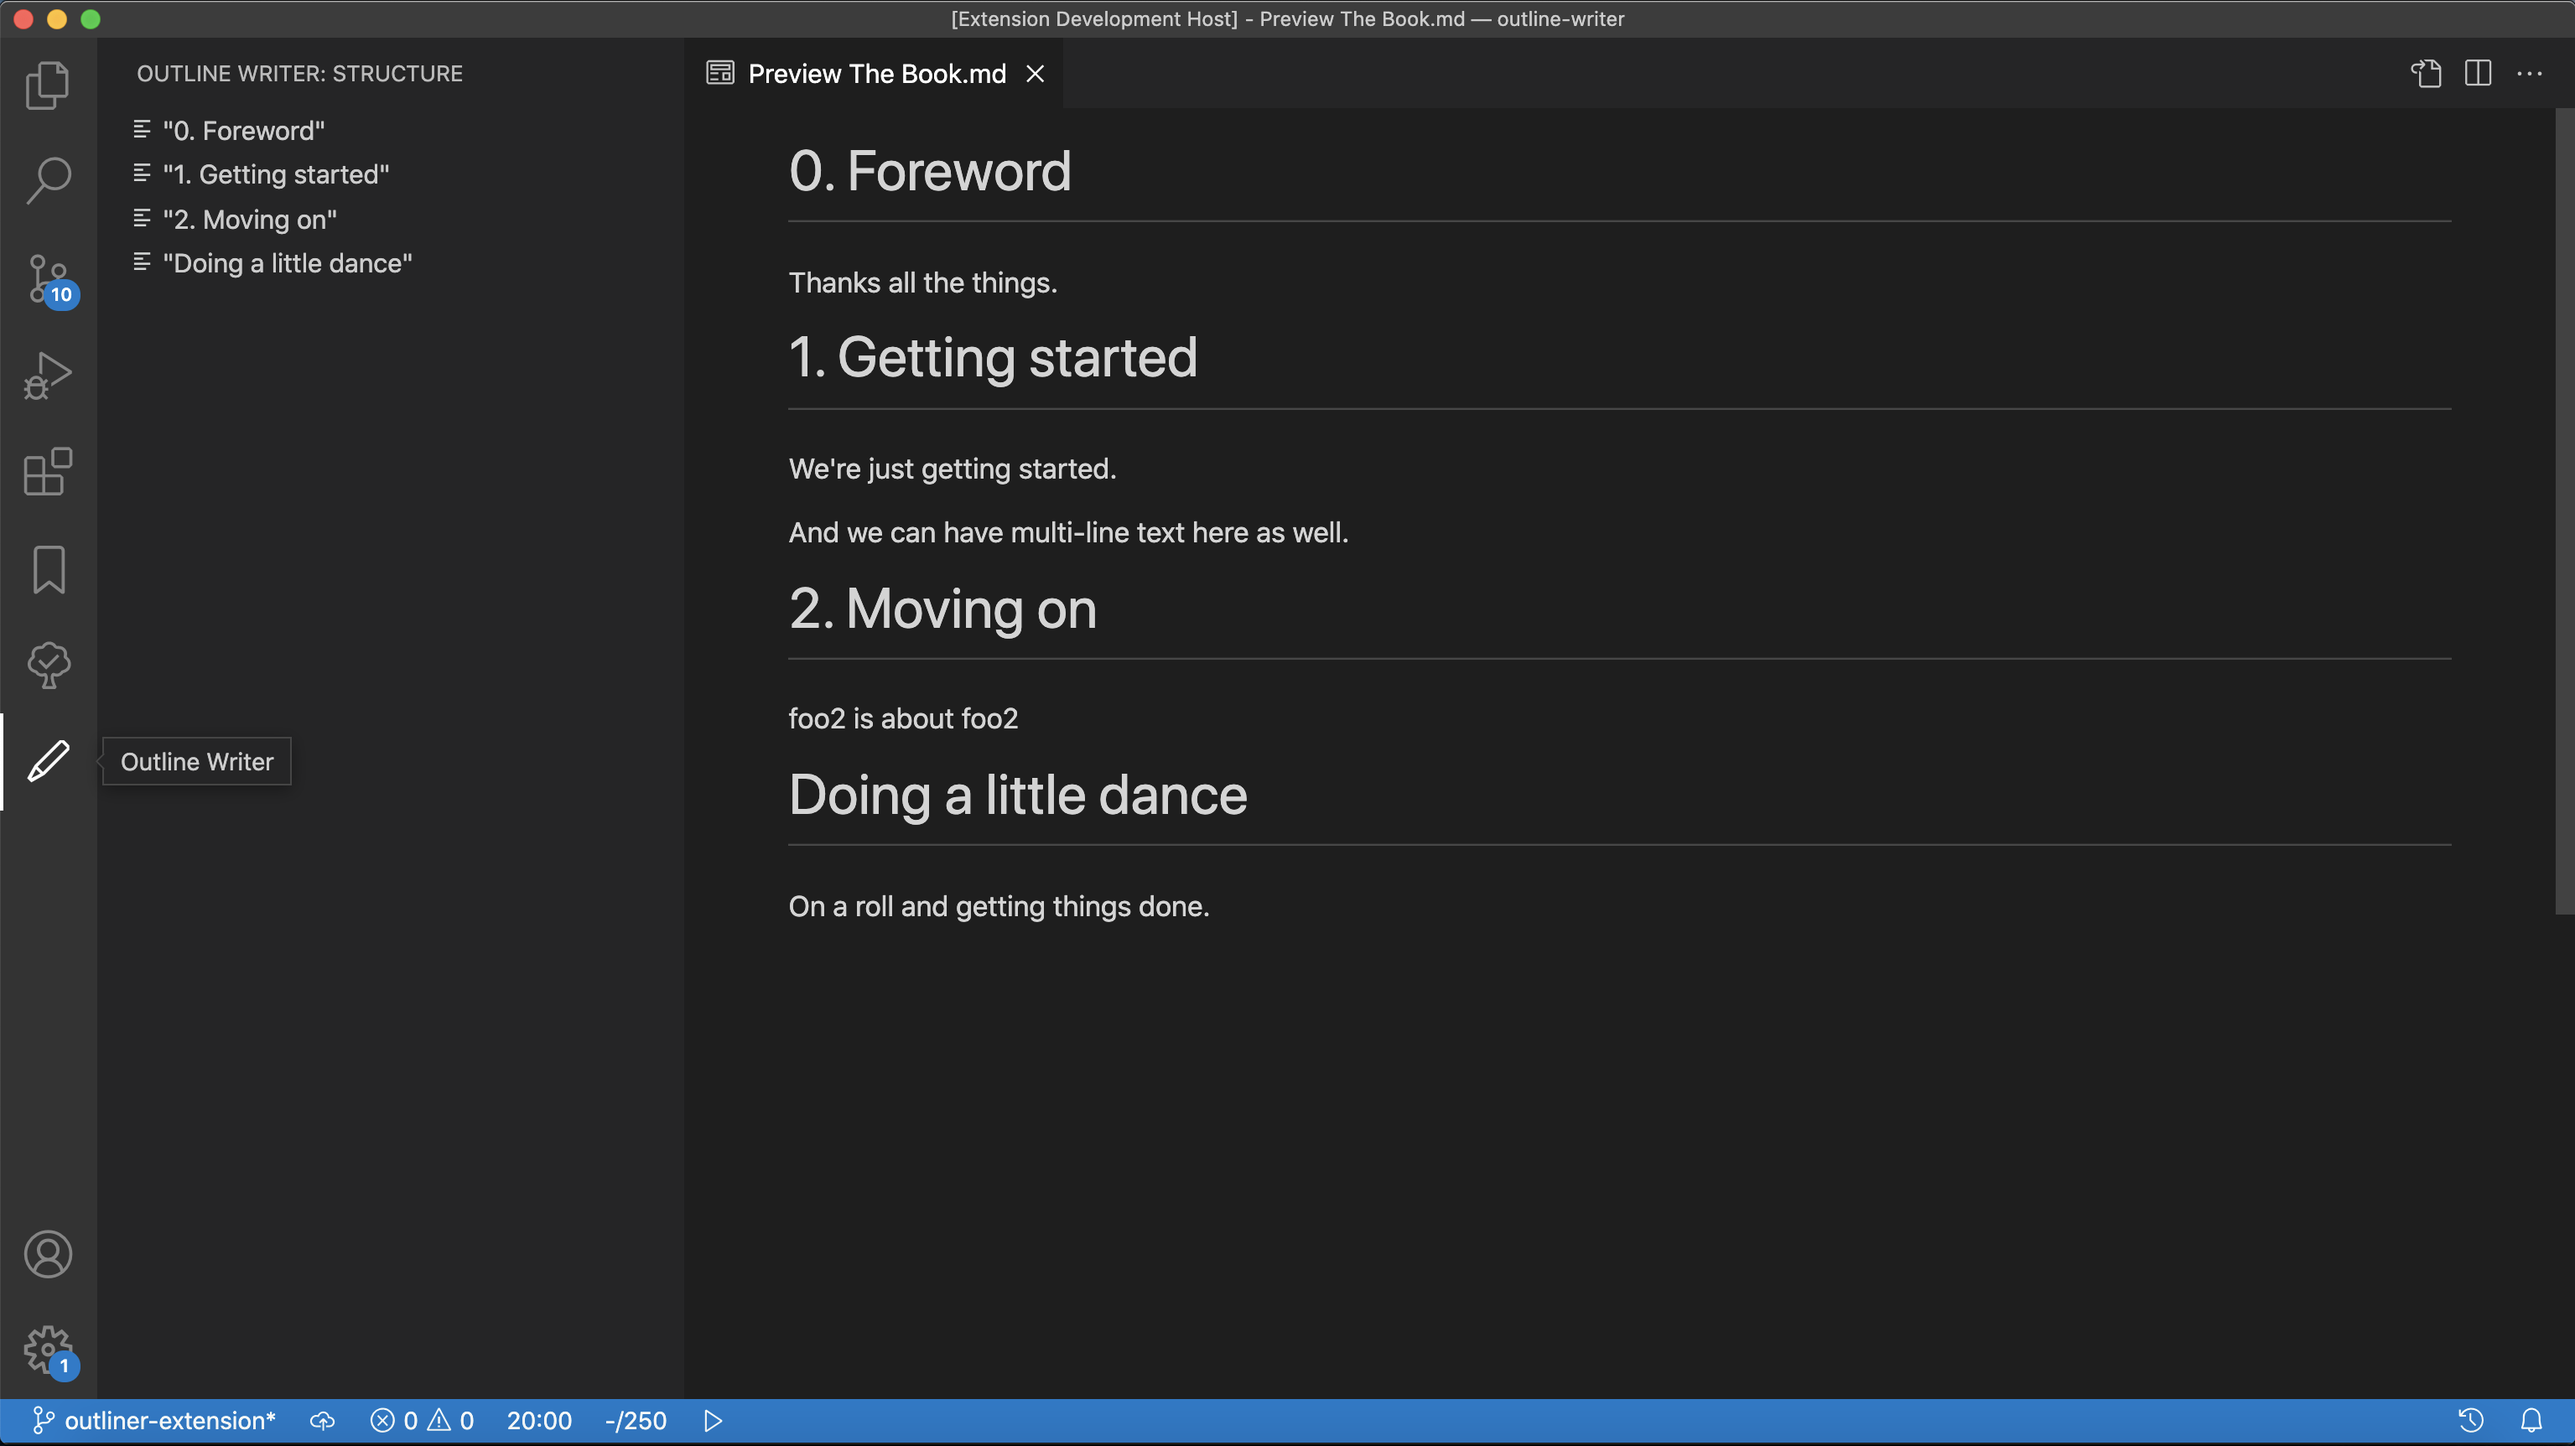
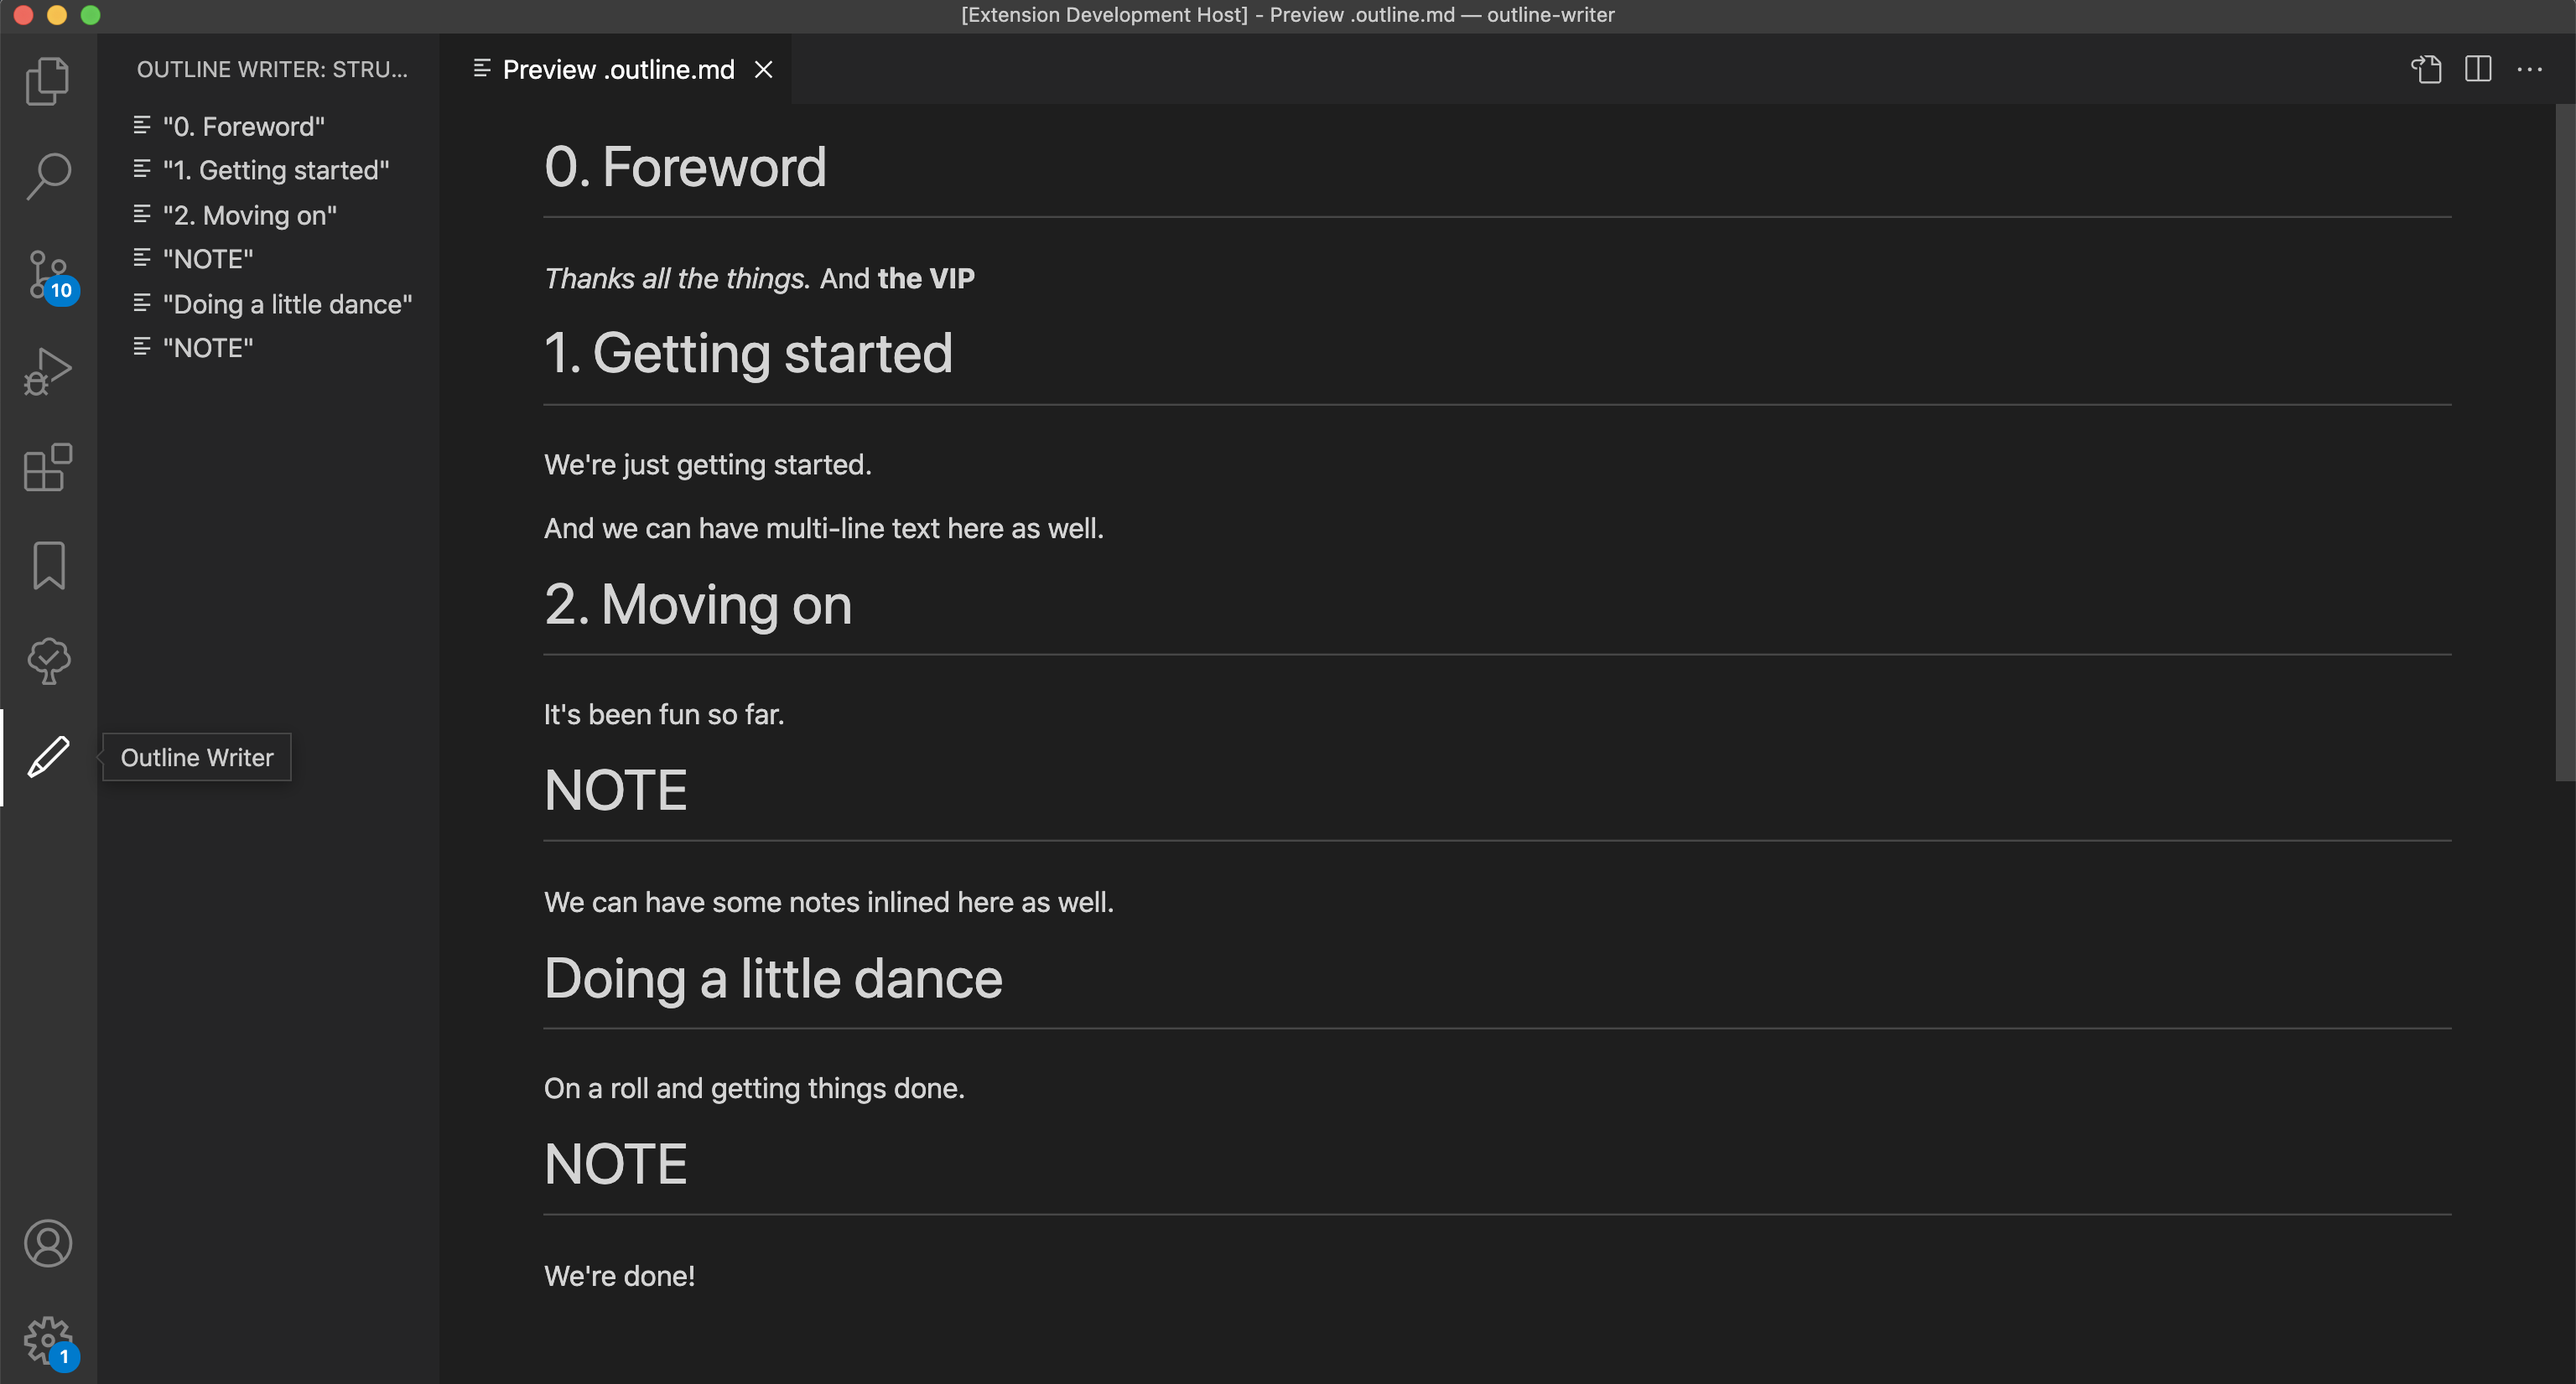
[outline-writer] Release 1.2.0.

diff --git a/outline-writer/README.md b/outline-writer/README.md
@@ -31,6 +31,16 @@ Display text outline, gathered from files with synopsis in YAML front matter.
    $ find . -name "*.md" | sort > .outline
    ```
 
+   The outline file may also contain inline notes, which can be created by prepending the line with `note:`:
+   ```txt
+   ./0. Foreword.md
+   ./Chapter 1/1. Getting started.md
+   ./Chapter 1/2. Moving on.md
+   note: We can have some notes inlined here as well.
+   ./Chapter 2/At the disco/Dancing.md
+   note: We're done!
+   ```
+
 
 ## Features
 

diff --git a/outline-writer/CHANGELOG.md b/outline-writer/CHANGELOG.md
@@ -2,6 +2,9 @@
 
 All notable changes to the "outline-writer" extension will be documented in this file.
 
+## 1.2.0 (2022-01-05)
+- Support inline notes in outline file.
+
 ## 1.1.0 (2021-12-18)
 - Add HTML outline format.
 
